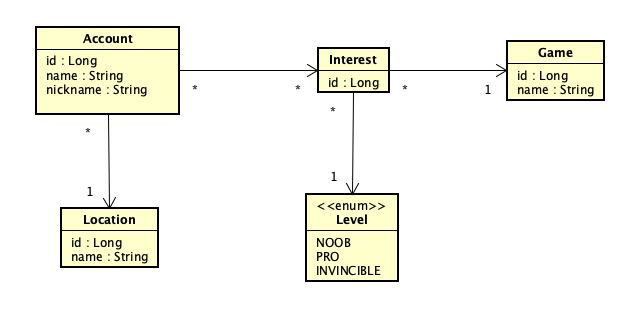
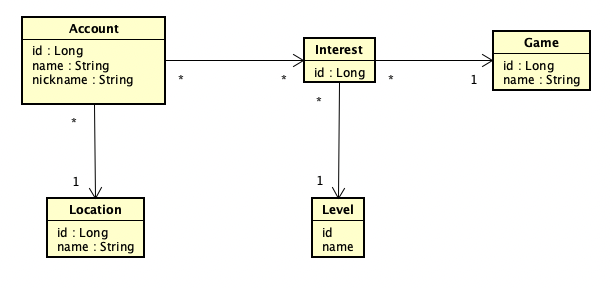
updated README

Changed region(s): [[0.031, 0.0312, 0.9918, 0.9062]]

diff --git a/README.md b/README.md
@@ -1,5 +1,43 @@
 ## GAMERS API
 
+
+## 📄 About
+
+A directory of gamers and their favorite games and respective level.
+
+---
+
+### Domain model design
+
+An Account has a list of Interests that are composed of a Game and a Level for that specific Game.
+
+The Account has also a name, a nickname and a Location.
+
+The available locations, games and levels are pre-defined.
+
+If the payload for creating an Account has different values than those pre-defined, the sign up process will fail.
+
 #### Domain model mapped
 
 ![](src/main/resources/img/gamers-api-domain-relationship.png)
+
+
+## ⚙ Running the API locally
+
+1. Clone the repo
+2. Make sure to import all maven dependencies
+3. Run the GamersApiApplication class
+
+a) The OpenAPI Swagger documentation is configured and can be access at:
+
+http://localhost:8080/swagger-ui/index.html
+
+b) The app has an in-memory database configured using H2 database and its own UI.
+
+- To access the H2 UI and visualize tables and data, go to http://localhost:8080/h2-console/
+
+- Login with:
+1. JDBC URL: jdbc:h2:mem:gamers-db
+2. User Name: sa
+3. Password:
+4. Click Connect
